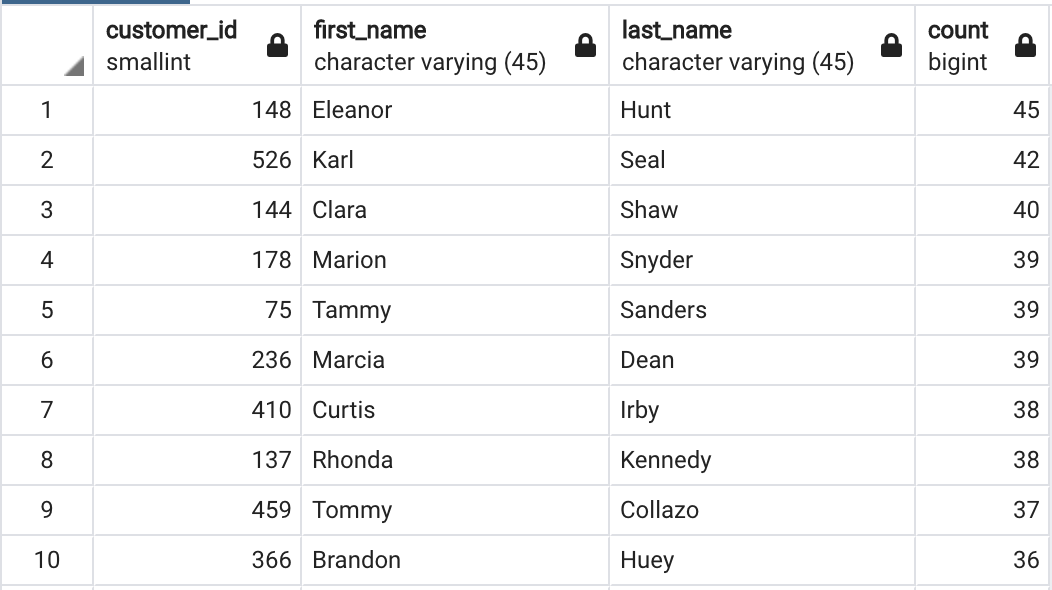
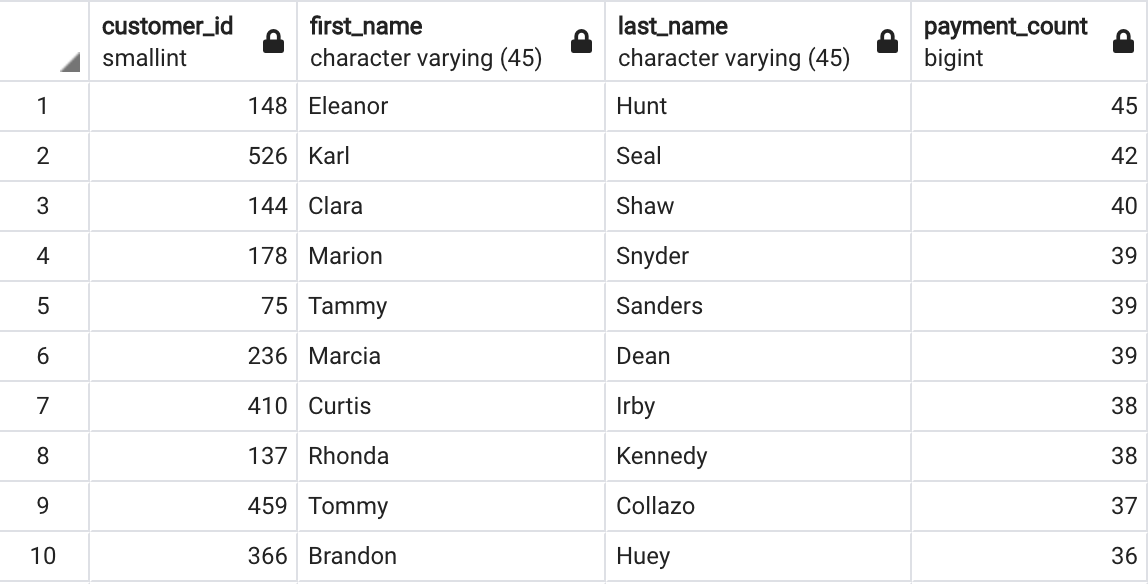
Updated homework-12.

diff --git a/SQL/homeworks/homework_12.md b/SQL/homeworks/homework_12.md
@@ -20,12 +20,12 @@
 ```
 
 ```SQL
-4. SELECT payment.customer_id, first_name, last_name, COUNT(payment.customer_id) FROM payment
+4. SELECT payment.customer_id, first_name, last_name, COUNT(payment.customer_id) AS payment_count FROM payment
    LEFT JOIN customer ON payment.customer_id = customer.customer_id
    GROUP BY payment.customer_id, customer.first_name, customer.last_name
-   ORDER BY count DESC;
+   ORDER BY payment_count DESC;
 ```
 
-**Result for Question 4: **
+**Result for Question 4:**
 
 <img src="/pics/query_result.png"/>
